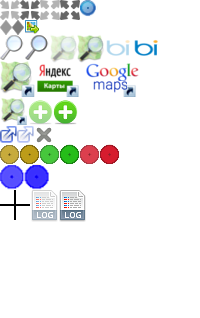
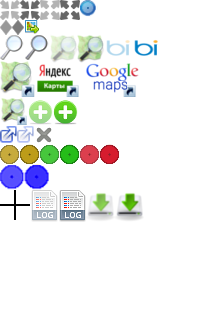
OSM layer for 19 zoom was added

Changed region(s): [[0.42, 0.5943, 0.72, 0.7075]]

diff --git a/moscow_stops/static/css/main.css b/moscow_stops/static/css/main.css
@@ -171,27 +171,48 @@ body.popup #popup {
 	float: right;
 }
 
-#signOutForm div.log {
+#signOutForm div.log,
+#signOutForm div.export {
 	width: 39px;
 	height: 39px;
 	position: absolute;
-	top: 0px;
-	left: -46px;
 	background-color: #ffffff;
 	border: 1px solid #afafaf;
 	cursor: pointer;
 }
 
-#signOutForm div.log span {
+#signOutForm div.log {
+	top: 0px;
+	left: -46px;
+}
+
+#signOutForm div.export {
+	top: 45px;
+	left: -46px;
+}
+
+#signOutForm div.log span,
+#signOutForm div.export span{
 	display: inline-block;
 	margin: 4px 0 0 5px;
 	width: 29px;
 	height: 31px;
+}
+
+#signOutForm div.log span {
 	background: url('../img/sm-icons.png') -30px -190px;
 }
 
 #signOutForm div.log:hover span {
 	background: url('../img/sm-icons.png') -58px -190px;
+}
+
+#signOutForm div.export span {
+	background: url('../img/sm-icons.png') -87px -190px;
+}
+
+#signOutForm div.export:hover span {
+	background: url('../img/sm-icons.png') -116px -190px;
 }
 
 #searchContainer .title,

diff --git a/moscow_stops/__init__.py b/moscow_stops/__init__.py
@@ -4,28 +4,29 @@ from pyramid_beaker import session_factory_from_settings
 from pyramid_beaker import set_cache_regions_from_settings
 
 from .models import (
-	DBSession,
-	Base,
-	)
+DBSession,
+Base,
+)
 
 
 def main(global_config, **settings):
-	""" This function returns a Pyramid WSGI application.
-	"""
-	engine = engine_from_config(settings, 'sqlalchemy.')
-	DBSession.configure(bind=engine)
-	Base.metadata.bind = engine
-	session_factory = session_factory_from_settings(settings)
-	set_cache_regions_from_settings(settings)
-	config = Configurator(settings=settings)
-	config.set_session_factory(session_factory)
-	config.add_static_view('static', 'static', cache_max_age=3600)
-	config.add_route('home', '/')
-	config.add_route('signout', '/signout')
-	config.add_route('stops', '/stops')
-	config.add_route('stop', '/stop/{id}')
-	config.add_route('stop_block', '/stop/block/{id}')
-	config.add_route('stop_unblock', '/stop/unblock/{id}')
-	config.add_route('logs', '/logs')
-	config.scan()
-	return config.make_wsgi_app()
+    """ This function returns a Pyramid WSGI application.
+    """
+    engine = engine_from_config(settings, 'sqlalchemy.')
+    DBSession.configure(bind=engine)
+    Base.metadata.bind = engine
+    session_factory = session_factory_from_settings(settings)
+    set_cache_regions_from_settings(settings)
+    config = Configurator(settings=settings)
+    config.set_session_factory(session_factory)
+    config.add_static_view('static', 'static', cache_max_age=3600)
+    config.add_route('home', '/')
+    config.add_route('signout', '/signout')
+    config.add_route('stops', '/stops')
+    config.add_route('stop', '/stop/{id}')
+    config.add_route('stop_block', '/stop/block/{id}')
+    config.add_route('stop_unblock', '/stop/unblock/{id}')
+    config.add_route('logs', '/logs')
+    config.add_route('export', '/export')
+    config.scan()
+    return config.make_wsgi_app()

diff --git a/moscow_stops/export.py b/moscow_stops/export.py
@@ -1,0 +1,22 @@
+# -*- coding: utf-8 -*-
+
+from pyramid.view import view_config
+from sqlalchemy.sql.expression import asc
+
+from models import DBSession, CheckStatusType
+from modules import exporter
+
+from logging import Logger
+
+@view_config(route_name='export', renderer='export.mako')
+def export_view(request):
+    session = DBSession()
+    ckeck_types = session.query(CheckStatusType).order_by(asc(CheckStatusType.id))
+    return {'check_types': ckeck_types}
+
+@view_config(route_name='export', renderer='export.mako', request_method='POST')
+def export(request):
+    log = logging..getLogger(__name__)
+
+    if 'format' in request.POST.keys():
+        exporter.export_stops(request.POST['format'], stops)

diff --git a/moscow_stops/modules/exporter.py b/moscow_stops/modules/exporter.py
@@ -1,0 +1,13 @@
+def _export_to_yandex_maps_for_Android (stops):
+    return True
+
+def _export_to_csv (stops):
+    return True
+
+_formats = {
+    'yma': _export_to_yandex_maps_for_Android,
+    'csv': _export_to_csv
+}
+
+def export_stops (format, stops):
+    return _formats.get(format)(stops)

diff --git a/moscow_stops/modules/__init__.py b/moscow_stops/modules/__init__.py
@@ -1,0 +1,1 @@
+__author__ = 'karavanjo'
